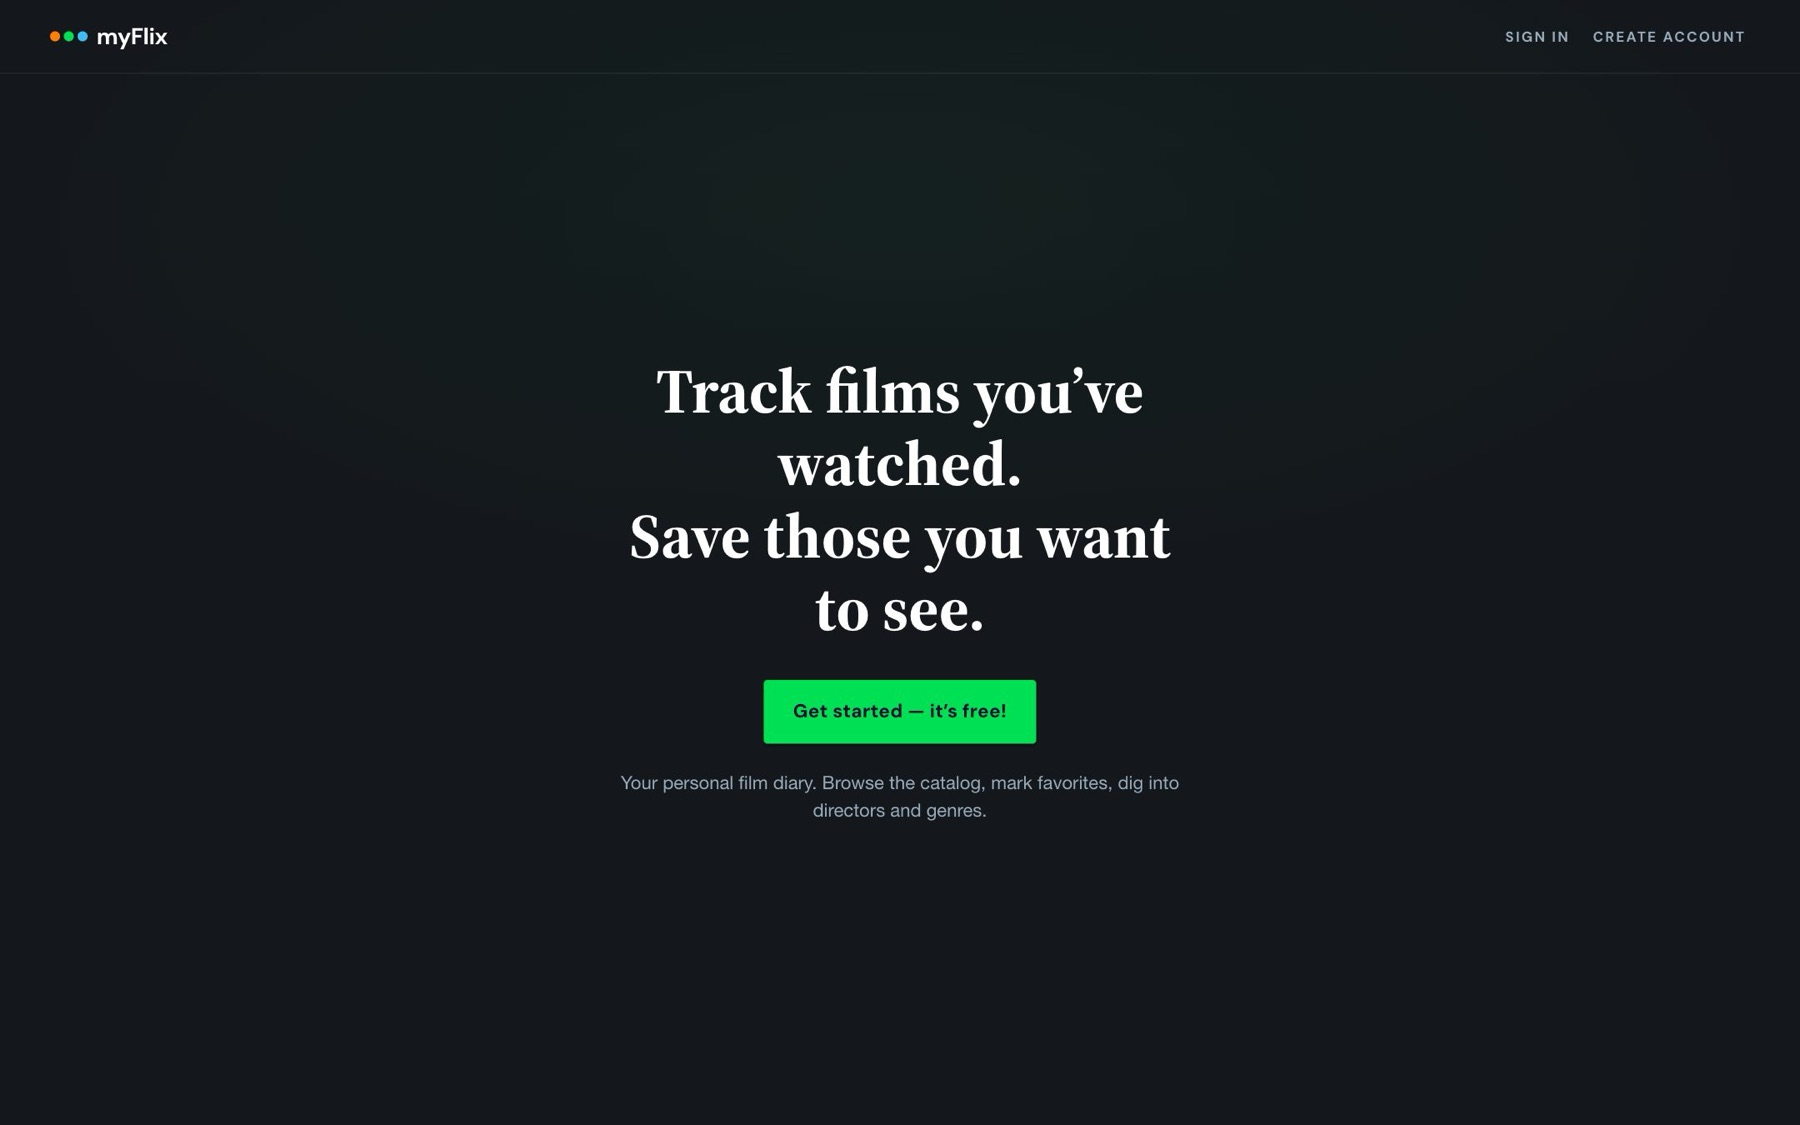
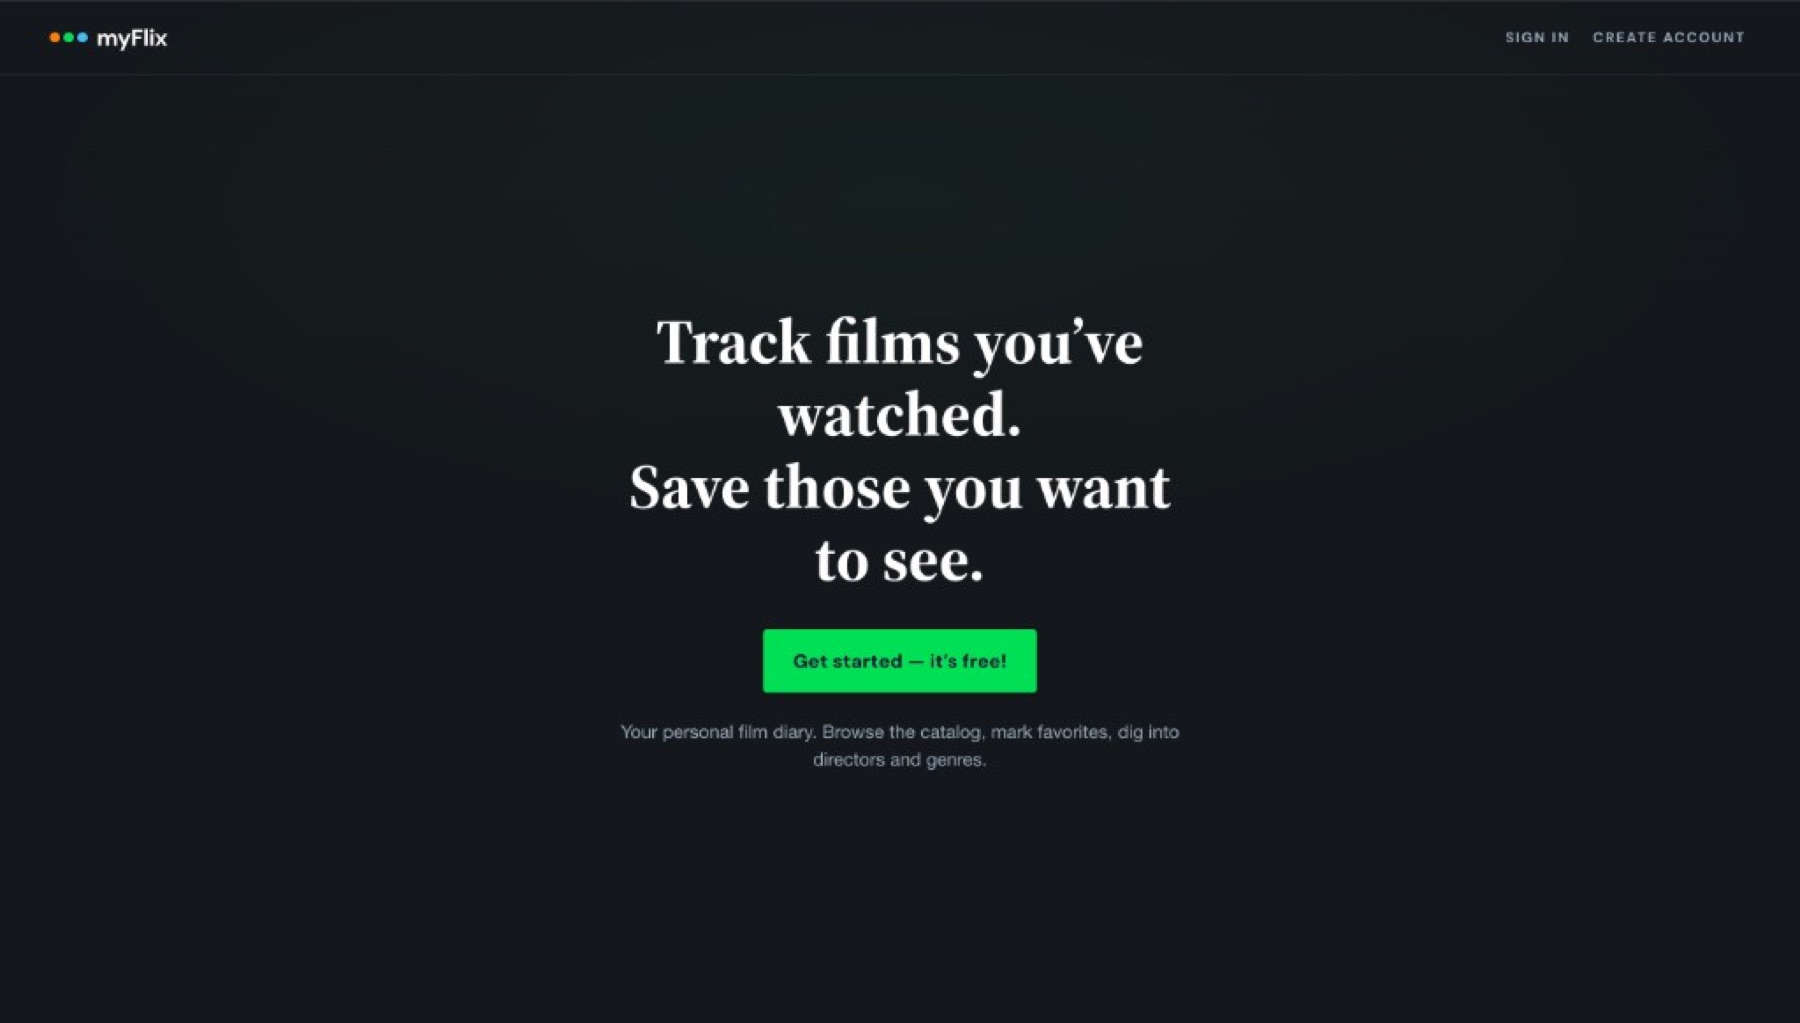
Show the current myFlix screens on the project page.
Landing, catalog, profile, and edit replace the old captures so the case study matches the rebuilt app.

diff --git a/myflix.html b/myflix.html
@@ -18,7 +18,7 @@
   <link rel="preconnect" href="https://fonts.googleapis.com" />
   <link rel="preconnect" href="https://fonts.gstatic.com" crossorigin />
   <link href="https://fonts.googleapis.com/css2?family=Marcellus&family=Alegreya+Sans:ital,wght@0,400;0,500;1,400&display=swap" rel="stylesheet" />
-  <link rel="stylesheet" href="css/site.css?v=12" />
+  <link rel="stylesheet" href="css/site.css?v=13" />
   <script>document.documentElement.classList.add("js");</script>
 </head>
 <body class="project-page">
@@ -54,7 +54,7 @@
       <a class="case__frame reveal-frame" href="https://lukeferenc.github.io/myFlix-Angular-client2/" target="_blank" rel="noopener noreferrer" data-cursor="Visit live">
         <div class="case__bar" aria-hidden="true"><i></i><i></i><i></i><span>lukeferenc.github.io/myFlix</span></div>
         <div class="case__shot">
-          <img src="assets/img/myflix.png?v=4" alt="myFlix film catalog with poster grid" width="1024" height="581" decoding="async" />
+          <img src="assets/img/projects/myflix-catalog.jpg?v=2" alt="myFlix film catalog with poster grid, search and genre filters" width="1800" height="1023" decoding="async" data-parallax />
         </div>
       </a>
     </section>
@@ -92,7 +92,7 @@
         </div>
       </div>
       <div class="p-split__media" style="--split-bg: var(--dark)">
-        <img class="reveal" src="assets/img/projects/myflix-welcome.jpg" alt="myFlix welcome page: track films you've watched, save those you want to see" width="1800" height="1125" loading="lazy" decoding="async" />
+        <img class="reveal" src="assets/img/projects/myflix-welcome.jpg?v=2" alt="myFlix welcome page: track films you've watched, save those you want to see" width="1800" height="1023" loading="lazy" decoding="async" />
       </div>
     </section>
 
@@ -100,22 +100,61 @@
       <div class="p-split__text">
         <div class="reveal">
           <p class="label">Build</p>
-          <h2 class="p-heading">Small fixes that make it feel solid</h2>
+          <h2 class="p-heading">Find a film in two keystrokes</h2>
         </div>
         <div class="p-body reveal">
           <p>
-            Search and genre chips filter the 40-title catalog instantly.
-            Favourites sync from the API response instead of guessing locally, and
-            route guards keep signed-out visitors on the welcome page.
+            Search matches titles and directors as you type, and genre chips
+            narrow the 40-title catalog instantly. The count updates with every
+            filter, so you always know how much is left.
           </p>
           <p>
-            Renaming your account issues a fresh token, and movie ids stay stable
-            when the catalog is reseeded, so saved favourites never break.
+            Hearts sync from the API response instead of guessing locally, and
+            route guards keep signed-out visitors on the welcome page.
           </p>
         </div>
       </div>
-      <div class="p-split__media">
-        <img class="reveal" src="assets/img/myflix.png?v=4" alt="myFlix catalog with search and genre filters" width="1024" height="581" loading="lazy" decoding="async" />
+      <div class="p-split__media" style="--split-bg: var(--dark)">
+        <img class="reveal" src="assets/img/projects/myflix-catalog.jpg?v=2" alt="myFlix catalog with search and genre chips" width="1800" height="1023" loading="lazy" decoding="async" />
+      </div>
+    </section>
+
+    <section class="p-section">
+      <div class="reveal">
+        <p class="label">Profile</p>
+        <h2 class="p-heading">Your taste, at a glance</h2>
+      </div>
+      <div class="p-body reveal">
+        <p>
+          The profile leads with what matters: your favourites as posters, plus a
+          quick count of how many directors and genres they span. Account details
+          sit quietly to the side, and deleting your account is a small link
+          rather than a big red button.
+        </p>
+      </div>
+    </section>
+
+    <div class="p-wide">
+      <img class="reveal" src="assets/img/projects/myflix-profile.jpg?v=3" alt="myFlix profile with avatar, stats and favourite film posters" width="1800" height="1225" loading="lazy" decoding="async" />
+    </div>
+
+    <section class="p-split">
+      <div class="p-split__text">
+        <div class="reveal">
+          <p class="label">Details</p>
+          <h2 class="p-heading">Edit only what changes</h2>
+        </div>
+        <div class="p-body reveal">
+          <p>
+            The edit form comes pre-filled and sends only the fields you touched.
+            Rename your account and the API issues a fresh token, so you stay
+            signed in. Movie ids stay stable when the catalog is reseeded, so
+            saved favourites never break.
+          </p>
+        </div>
+      </div>
+      <div class="p-split__media" style="--split-bg: var(--dark)">
+        <img class="reveal" src="assets/img/projects/myflix-edit.jpg?v=3" alt="myFlix edit profile dialog" width="1800" height="1225" loading="lazy" decoding="async" />
       </div>
     </section>
 
@@ -134,10 +173,6 @@
         </ul>
       </div>
     </section>
-
-    <div class="p-gallery">
-      <figure class="reveal" style="background: var(--dark)"><img src="assets/img/projects/myflix-mobile.jpg" alt="myFlix welcome page on a phone" width="831" height="1800" loading="lazy" decoding="async" /></figure>
-    </div>
 
     <section class="p-credits">
       <p class="p-credits__intro label reveal">Made solo</p>
@@ -184,6 +219,6 @@
 
   <div class="cursor" aria-hidden="true"><span></span></div>
 
-  <script src="js/site.js?v=12"></script>
+  <script src="js/site.js?v=13"></script>
 </body>
 </html>

diff --git a/index.html b/index.html
@@ -130,7 +130,7 @@
           <div class="case__frame reveal-frame">
             <div class="case__bar" aria-hidden="true"><i></i><i></i><i></i><span>lukeferenc.github.io/myFlix</span></div>
             <div class="case__shot">
-              <img src="assets/img/myflix.png?v=4" alt="myFlix film catalog with poster grid" width="1024" height="581" loading="lazy" decoding="async" data-parallax />
+              <img src="assets/img/projects/myflix-catalog.jpg?v=2" alt="myFlix film catalog with poster grid" width="1800" height="1023" loading="lazy" decoding="async" data-parallax />
             </div>
           </div>
         </a>
